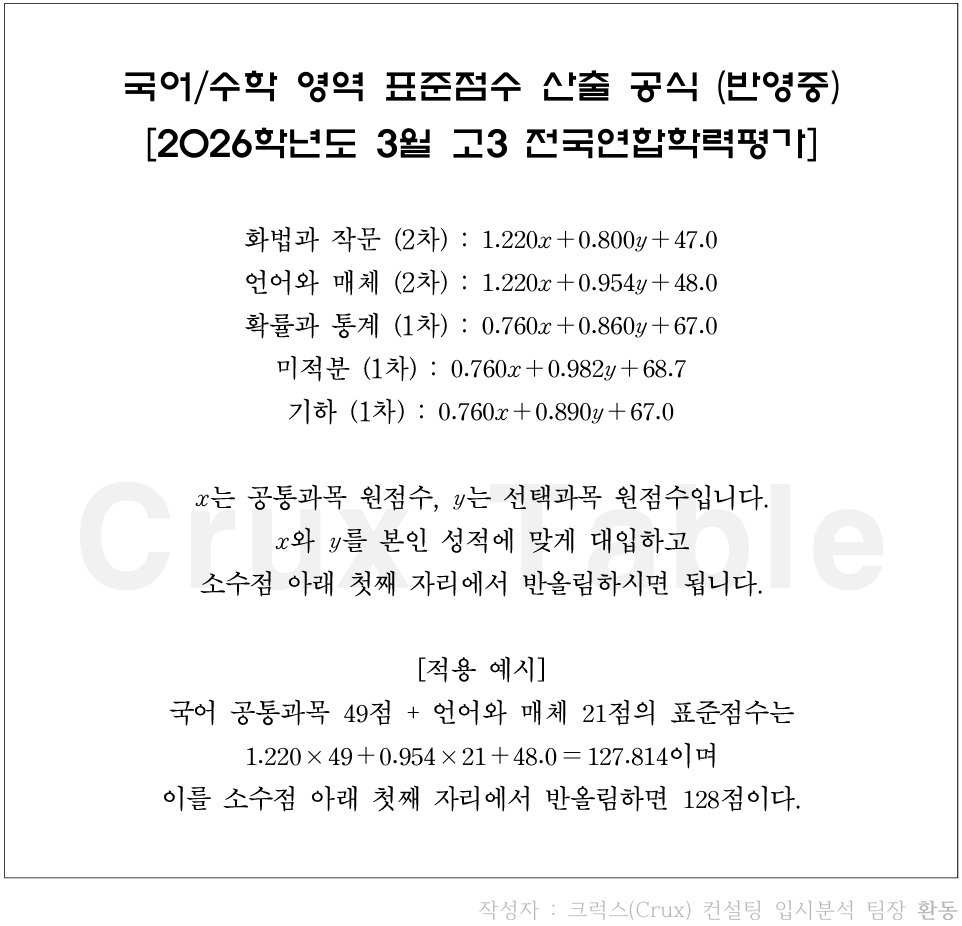
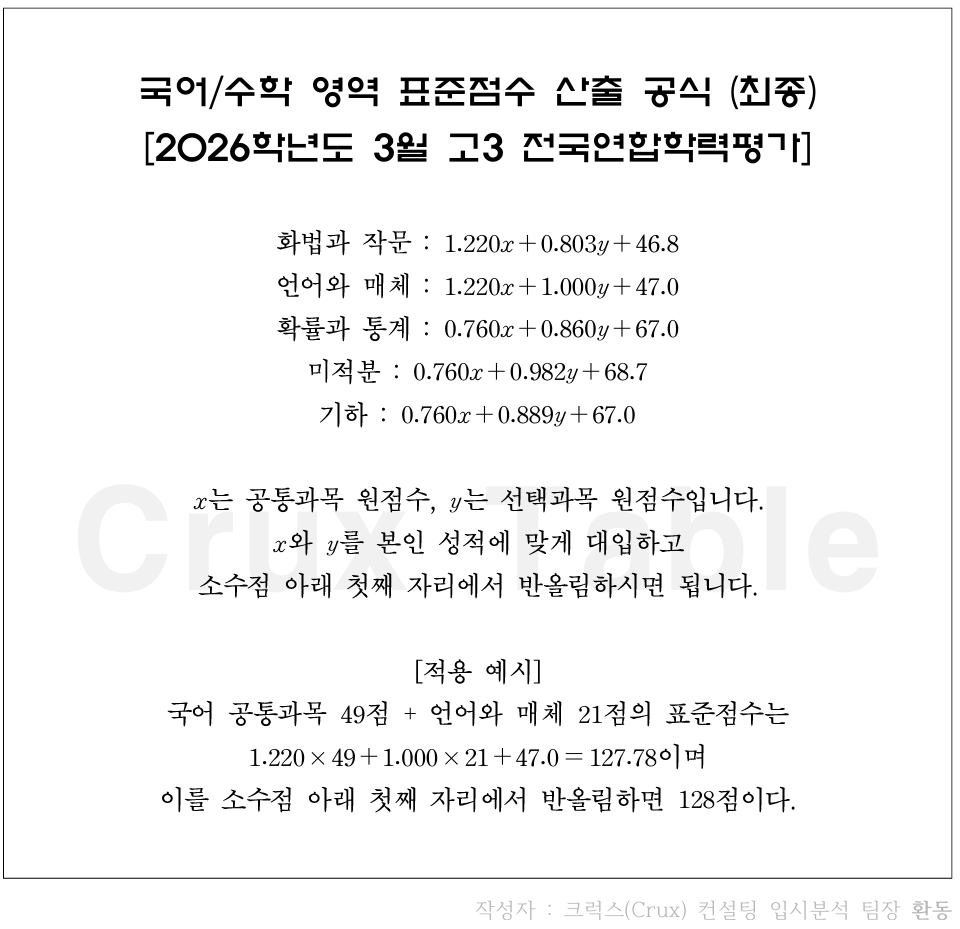
3모 최종

diff --git a/js/data.js b/js/data.js
@@ -830,7 +830,7 @@ let data = {
     "202633rd": {
         "국어": [
             {
-                "화법과 작문": [1.22, 0.8, 47],
+                "화법과 작문": [1.22, 0.803, 46.8],
                 "언어와 매체": [1.22, 0.954, 48]
             },
             ["164", "100.00", "1"],
@@ -953,7 +953,7 @@ let data = {
         {
             "확률과 통계": [0.76, 0.86, 67],
             "미적분": [0.76, 0.982, 68.7],
-            "기하": [0.76, 0.89, 67]
+            "기하": [0.76, 0.889, 67]
         },
         ["150", "99.95", "1"],
         ["148", "99.90", "1"],
